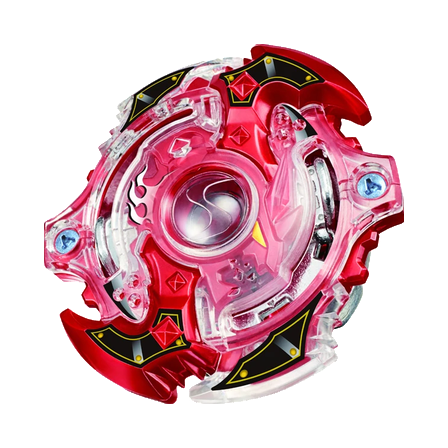
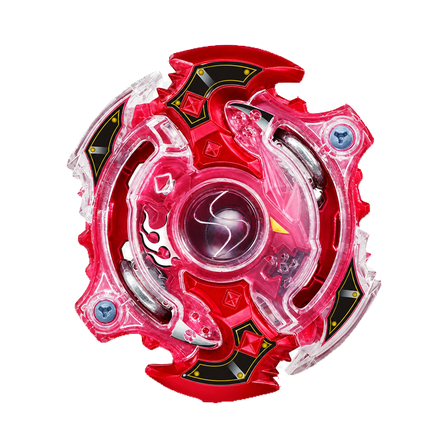
feat: deploy B-35 Storm Spriggan front image

diff --git a/index.html b/index.html
@@ -484,7 +484,7 @@
         "#app/services": "./src/app-services.js?v=20260714-scroll-affordance-overlay",
         "#app/markup-core": "./src/markup-core.js?v=20260714-scroll-affordance-overlay",
         "#app/anime-core": "./src/anime-core.js?v=20260720-burst-airdate-notes",
-        "#app/data-store": "./src/data-store.js?v=20260819-burst-b07-b21-orthographic-fronts",
+        "#app/data-store": "./src/data-store.js?v=20260822-burst-b35-storm-spriggan-generated-front",
         "#app/search-data-decoder": "./src/search-data-decoder.js?v=20260720-burst-airdate-notes",
         "#app/ui-elements": "./src/ui-elements.js?v=20260819-code-structure-cleanup",
         "#app/catalog-metadata": "./src/catalog-metadata.js?v=20260819-code-structure-cleanup",
@@ -494,7 +494,7 @@
         "#app/scroll-affordance": "./src/scroll-affordance.js?v=20260719-dropdown-shadow-mounted-label",
         "#app/search-core": "./src/search-core.js?v=20260717-dead-code-cleanup",
         "#app/search-engine": "./src/search-engine.js?v=20260731-mobile-highlight-fix",
-        "#app/catalog-model": "./src/catalog-model.js?v=20260819-burst-b07-b21-orthographic-fronts",
+        "#app/catalog-model": "./src/catalog-model.js?v=20260822-burst-b35-storm-spriggan-generated-front",
         "#app/collection-view": "./src/collection-view.js?v=20260731-mobile-highlight-fix",
         "#app/catalog-view": "./src/catalog-view.js?v=20260717-dead-code-cleanup",
         "#app/route-parser": "./src/route-parser.js?v=20260714-scroll-affordance-overlay",
@@ -505,7 +505,7 @@
         "#app/search-help-controller": "./src/search-help-controller.js?v=20260717-dead-code-cleanup",
         "#app/detail-view": "./src/detail-view.js?v=20260803-modal-tag-wheel-edge",
         "#app/detail-content": "./src/detail-content.js?v=20260819-code-structure-cleanup",
-        "#app/image-preview": "./src/image-preview.js?v=20260819-burst-b07-b21-orthographic-fronts",
+        "#app/image-preview": "./src/image-preview.js?v=20260822-burst-b35-storm-spriggan-generated-front",
         "#app/floating-layer": "./src/floating-layer.js?v=20260819-code-structure-cleanup",
         "#app/modal-context": "./src/modal-context.js?v=20260714-scroll-affordance-overlay",
         "#app/style-loader": "./src/style-loader.js?v=20260804-mobile-modal-scrollbar-centering",

diff --git a/src/data-store.js b/src/data-store.js
@@ -8,7 +8,7 @@ const bookItems = [];
 const gameItems = [];
 const animeInfo = { title: "", overview: [], characters: [], episodes: [] };
 const searchIndexItems = [];
-const X_ASSET_CACHE_VERSION = "20260819-burst-b07-b21-orthographic-fronts";
+const X_ASSET_CACHE_VERSION = "20260822-burst-b35-storm-spriggan-generated-front";
 
 const versionAssetUrl = source => {
   const value = String(source || "");

diff --git a/scripts/build-burst-bey-images.py b/scripts/build-burst-bey-images.py
@@ -24,7 +24,7 @@ import numpy as np
 from PIL import Image, ImageFilter
 
 
-VERSION = "20260819-burst-b07-b21-orthographic-fronts"
+VERSION = "20260822-burst-b35-storm-spriggan-generated-front"
 CANVAS_SIZE = 448
 TARGET_FOREGROUND_SIZE = 360
 ALPHA_THRESHOLD = 3

diff --git a/data/source/burst-bey-front-view-audit.md b/data/source/burst-bey-front-view-audit.md
@@ -1,7 +1,7 @@
 # 버스트 베이 수직 탑뷰 엄격 재감사
 
 - 검토일: `2026-08-19`
-- 버전: `20260819-burst-b07-b21-orthographic-fronts`
+- 버전: `20260822-burst-b35-storm-spriggan-generated-front`
 - 정면 기준: 카메라 축이 회전축 바로 위에 있는 수직 탑뷰
 - 파일명과 캡션은 증거로 사용하지 않고 448px과 112px 픽셀을 직접 검수함
 
@@ -319,7 +319,7 @@
 | B-30 | 스프리건.S.F | `BEY-BURST-B-30-SPRIGGAN-S-F` | 수직 탑뷰 픽셀 검수 통과 |
 | B-31 | 이그드라실.R.G | `BEY-BURST-B-31-YGGDRASIL-R-G` | 수직 탑뷰 픽셀 검수 통과 |
 | B-34 | 빅토리 발키리.B.V | `BEY-BURST-B-34-VICTORY-VALKYRIE-B-V` | 수직 탑뷰 픽셀 검수 통과 |
-| B-35 | 스톰 스프리건.K.U | `BEY-BURST-B-35-STORM-SPRIGGAN-K-U` | 수직 탑뷰 픽셀 검수 통과 |
+| B-35 | 스톰 스프리건.K.U | `BEY-BURST-B-35-STORM-SPRIGGAN-K-U` | 사용자 승인 v3 정면본·삼각나사 픽셀 검수 통과 |
 | B-36 | 라이징 라그나로크.G.R | `BEY-BURST-B-36-RISING-RAGNARUK-G-R` | 수직 탑뷰 픽셀 검수 통과 |
 | B-37 | 카이저 케르베우스.L.P | `BEY-BURST-B-37-KAISER-KERBEUS-L-P` | 수직 탑뷰 픽셀 검수 통과 |
 | B-38 | 빅토리 발키리.B.V | `BEY-BURST-B-38-VICTORY-VALKYRIE-B-V` | 수직 탑뷰 픽셀 검수 통과 |
